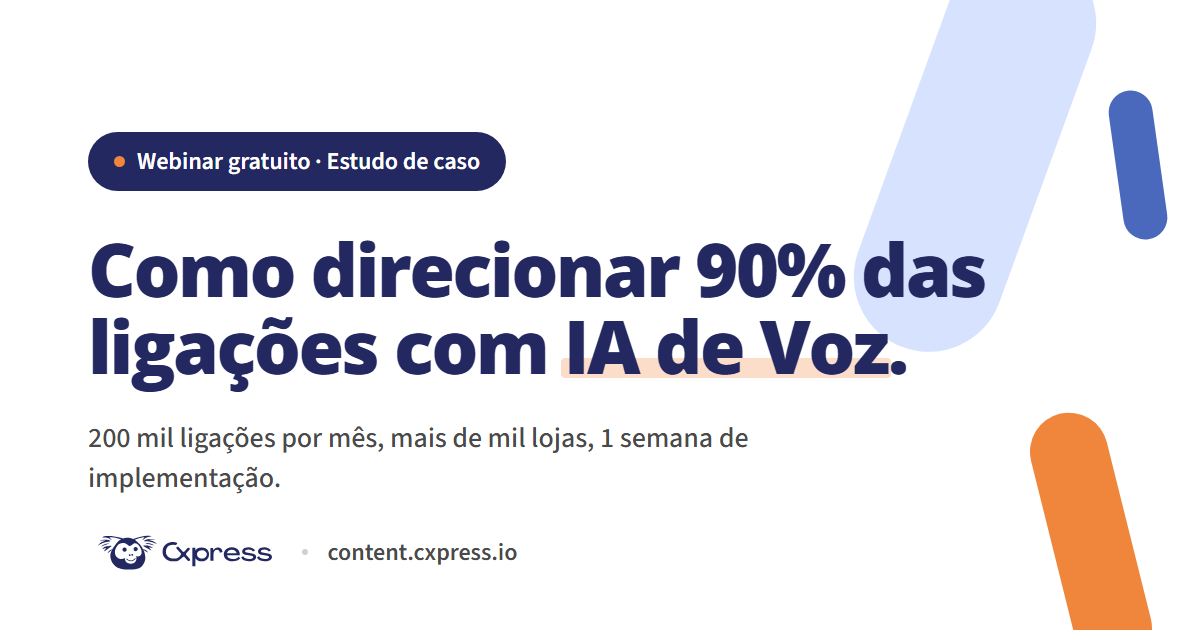
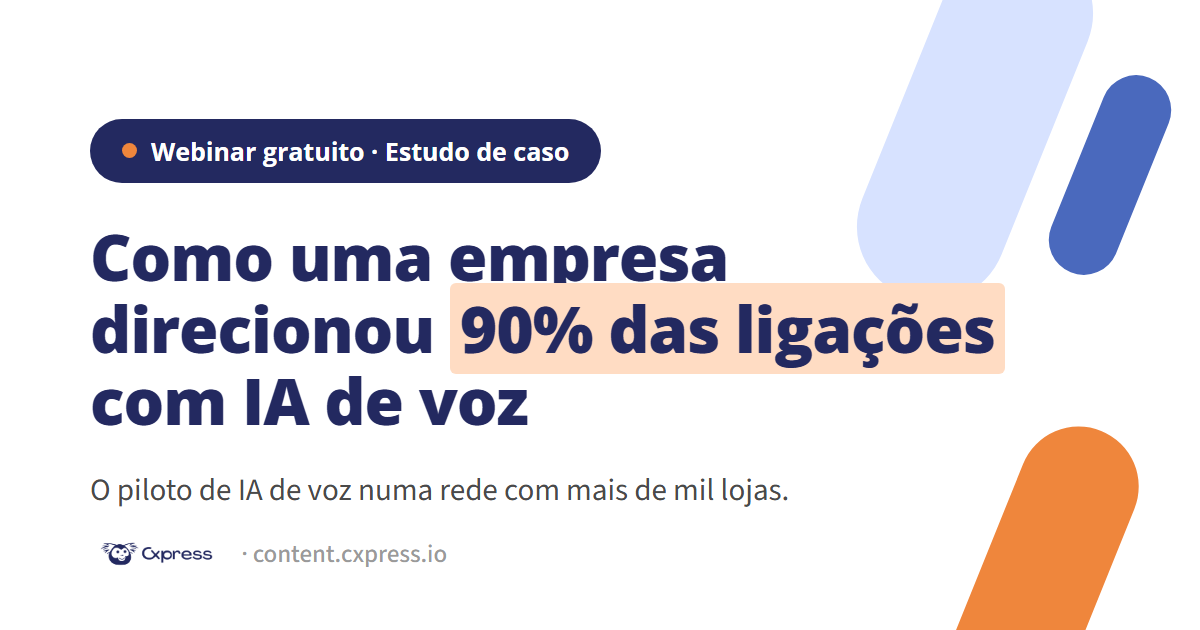
Redesenhar hero e atualizar copy da LP case-ia-de-voz

diff --git a/landing-pages/cxpress/case-ia-de-voz/index.html b/landing-pages/cxpress/case-ia-de-voz/index.html
@@ -12,8 +12,8 @@
   })(window,document,'script','dataLayer','GTM-T4XDWHL3');</script>
   <!-- End Google Tag Manager -->
 
-  <title>Estudo de Caso · Como Direcionar 90% das Ligações com IA de Voz</title>
-  <meta name="description" content="Estudo de caso: uma rede com mais de mil lojas usou IA de Voz (GPT Realtime + VozXpress) para direcionar 90% de 200 mil ligações mensais. Webinar gratuito.">
+  <title>Estudo de caso · 90% das ligações direcionadas com IA de voz</title>
+  <meta name="description" content="Estudo de caso: uma rede com mais de mil lojas recebia 200 mil ligações por mês pelo Google Meu Negócio e o telefone virou o elo fraco do atendimento. Veja como um piloto com IA de voz chegou a 90% de direcionamento correto. Webinar gratuito.">
   <meta name="robots" content="index, follow">
   <meta name="author" content="Cxpress">
   <meta name="theme-color" content="#ffffff">
@@ -24,16 +24,16 @@
   <meta property="og:site_name" content="Cxpress">
   <meta property="og:locale" content="pt_BR">
   <meta property="og:url" content="https://content.cxpress.io/case-ia-de-voz">
-  <meta property="og:title" content="Estudo de caso · Como direcionar 90% das ligações com IA de Voz">
-  <meta property="og:description" content="Webinar gratuito: o case real de uma rede com mais de mil lojas que colocou o GPT Realtime + VozXpress pra fazer a triagem de 200 mil ligações por mês.">
+  <meta property="og:title" content="Estudo de caso · Como uma empresa direcionou 90% das ligações com IA de voz">
+  <meta property="og:description" content="Webinar gratuito: o caso real de uma rede com mais de mil lojas onde o telefone virou o elo fraco do atendimento, e como um piloto com IA de voz chegou a 90% de direcionamento correto.">
   <meta property="og:image" content="https://content.cxpress.io/assets/cxpress/og-case-ia-de-voz.png">
   <meta property="og:image:width" content="1200">
   <meta property="og:image:height" content="630">
-  <meta property="og:image:alt" content="Webinar Cxpress: estudo de caso de IA de Voz com 90% das ligações direcionadas corretamente">
+  <meta property="og:image:alt" content="Webinar Cxpress: estudo de caso de um piloto com IA de voz que chegou a 90% de direcionamento correto">
 
   <meta name="twitter:card" content="summary_large_image">
-  <meta name="twitter:title" content="Estudo de caso · Como direcionar 90% das ligações com IA de Voz">
-  <meta name="twitter:description" content="Webinar gratuito: o case real de uma rede com mais de mil lojas que colocou o GPT Realtime + VozXpress pra fazer a triagem de 200 mil ligações por mês.">
+  <meta name="twitter:title" content="Estudo de caso · Como uma empresa direcionou 90% das ligações com IA de voz">
+  <meta name="twitter:description" content="Webinar gratuito: o caso real de uma rede com mais de mil lojas onde o telefone virou o elo fraco do atendimento, e como um piloto com IA de voz chegou a 90% de direcionamento correto.">
   <meta name="twitter:image" content="https://content.cxpress.io/assets/cxpress/og-case-ia-de-voz.png">
 
   <script type="application/ld+json">
@@ -50,15 +50,15 @@
       {
         "@type": "WebPage",
         "@id": "https://content.cxpress.io/case-ia-de-voz#webpage",
-        "name": "Estudo de Caso · Como Direcionar 90% das Ligações com IA de Voz",
+        "name": "Estudo de caso · 90% das ligações direcionadas com IA de voz",
         "url": "https://content.cxpress.io/case-ia-de-voz",
         "inLanguage": "pt-BR",
         "isPartOf": { "@id": "https://home.cxpress.io#organization" },
-        "description": "Webinar gratuito da Cxpress: estudo de caso de IA de Voz com GPT Realtime + VozXpress fazendo a triagem de 200 mil ligações mensais com 90% de direcionamento correto."
+        "description": "Webinar gratuito da Cxpress: estudo de caso de um piloto com IA de voz que chegou a 90% de direcionamento correto das ligações de uma rede com mais de mil lojas."
       },
       {
         "@type": "SoftwareApplication",
-        "name": "VozXpress",
+        "name": "IA de voz da Cxpress",
         "applicationCategory": "BusinessApplication",
         "url": "https://content.cxpress.io/case-ia-de-voz",
         "description": "Módulo de voz da plataforma Cxpress: agentes de voz com IA para triagem, direcionamento e atendimento de ligações, integrados aos demais canais.",
@@ -319,36 +319,48 @@
       50% { opacity: .4; transform: scale(1.3); }
     }
     .hero h1 {
-      font-size: clamp(38px, 5.2vw, 60px);
+      font-size: clamp(36px, 6.4vw, 70px);
       font-weight: 800;
-      line-height: 1.04;
-      letter-spacing: -0.035em;
-      margin-bottom: 22px;
+      line-height: 1.0;
+      letter-spacing: -0.042em;
+      color: var(--primary-dark);
+      margin-bottom: 16px;
+    }
+    .hero-lede {
+      font-family: var(--font-heading);
+      font-size: clamp(20px, 2.3vw, 27px);
+      font-weight: 700;
+      line-height: 1.3;
+      letter-spacing: -0.015em;
+      color: var(--primary-dark);
+      max-width: 560px;
+      margin-bottom: 24px;
       isolation: isolate;
     }
-    .hero h1 .mark {
+    .hero-lede .mark {
       position: relative;
       display: inline-block;
       white-space: nowrap;
+      font-weight: 800;
     }
-    .hero h1 .mark::after {
+    .hero-lede .mark::after {
       content: '';
       position: absolute;
       left: -2px;
       right: -2px;
-      bottom: 4px;
-      height: 14px;
+      bottom: 1px;
+      height: 11px;
       background: var(--accent);
-      opacity: .28;
+      opacity: .30;
       z-index: -1;
       border-radius: 3px;
     }
     .hero-body {
-      font-size: 19px;
+      font-size: 17.5px;
       color: var(--neutral-700);
-      max-width: 580px;
-      margin-bottom: 36px;
-      line-height: 1.6;
+      max-width: 560px;
+      margin-bottom: 32px;
+      line-height: 1.62;
     }
     .hero-actions {
       display: flex;
@@ -869,7 +881,7 @@
     }
     .outcome-grid {
       display: grid;
-      grid-template-columns: repeat(2, 1fr);
+      grid-template-columns: repeat(3, 1fr);
       gap: 24px;
     }
     .outcome-card {
@@ -1073,10 +1085,9 @@ height="0" width="0" style="display:none;visibility:hidden"></iframe></noscript>
               <span class="dot" aria-hidden="true"></span>
               Webinar gratuito · Estudo de caso
             </span>
-            <h1>
-              Como direcionar 90% das ligações com <span class="mark">IA de Voz</span>.
-            </h1>
-            <p class="hero-body">Uma rede com mais de mil lojas recebia 200 mil ligações por mês pelo botão de ligar do Google My Business. Os vendedores não davam conta de atender e o insucesso de contato virou o principal detrator da marca. Neste webinar gratuito, quem implementou o projeto conta como o GPT Realtime, integrado ao VozXpress da Cxpress, assumiu a triagem dessas chamadas e chegou a 90% de direcionamento correto.</p>
+            <h1>Atendimento Telefônico Sobrecarregado</h1>
+            <p class="hero-lede">Como uma empresa direcionou <span class="mark">90% das ligações</span> com IA de voz.</p>
+            <p class="hero-body">Uma rede com mais de mil lojas registrava cerca de 200 mil cliques por mês no botão de ligar do Google Meu Negócio. Porém, com o time sobrecarregado, o insucesso de contato virou um dos principais detratores da marca. Neste webinar gratuito, você vai entender como um agente de voz da Cxpress passou a analisar e direcionar as chamadas recebidas, reduzindo o esforço de atendimento do time das lojas.</p>
             <div class="hero-actions">
               <span class="hero-meta">
                 <span>Online</span>
@@ -1154,7 +1165,7 @@ height="0" width="0" style="display:none;visibility:hidden"></iframe></noscript>
                 <line x1="6" y1="6" x2="18" y2="18"/><line x1="18" y1="6" x2="6" y2="18"/>
               </svg>
             </span>
-            <p class="pain-text">O insucesso de contato apareceu entre os top detratores nas avaliações do Google My Business.</p>
+            <p class="pain-text">O insucesso de contato apareceu entre os principais detratores nas avaliações do Google Meu Negócio.</p>
           </li>
           <li class="pain-item">
             <span class="pain-x" aria-hidden="true">
@@ -1162,7 +1173,7 @@ height="0" width="0" style="display:none;visibility:hidden"></iframe></noscript>
                 <line x1="6" y1="6" x2="18" y2="18"/><line x1="18" y1="6" x2="6" y2="18"/>
               </svg>
             </span>
-            <p class="pain-text">Reclamações e pós-venda caem na loja, que nem trata desses assuntos. O vendedor perde tempo e o cliente perde a paciência.</p>
+            <p class="pain-text">Reclamações e pós-venda também caem na loja, que nem trata desses assuntos. O vendedor perde tempo e o cliente perde a paciência.</p>
           </li>
           <li class="pain-item">
             <span class="pain-x" aria-hidden="true">
@@ -1170,7 +1181,7 @@ height="0" width="0" style="display:none;visibility:hidden"></iframe></noscript>
                 <line x1="6" y1="6" x2="18" y2="18"/><line x1="18" y1="6" x2="6" y2="18"/>
               </svg>
             </span>
-            <p class="pain-text">Eram 200 mil cliques por mês no botão de ligar, e ninguém sabia dizer sobre o que os clientes queriam falar.</p>
+            <p class="pain-text">Eram cerca de 200 mil cliques por mês no botão de ligar, e ninguém sabia dizer sobre o que os clientes queriam falar.</p>
           </li>
         </ul>
       </div>
@@ -1187,18 +1198,18 @@ height="0" width="0" style="display:none;visibility:hidden"></iframe></noscript>
         <div class="program-grid">
           <article class="program-card">
             <span class="program-number">01</span>
-            <h3 class="program-title">Por que a URA parou de dar conta</h3>
-            <p class="program-body">O que muda quando o modelo processa a voz em si, não a transcrição: conversa que soa humana, precisão com nomes e números e latência ajustável. O GPT Realtime explicado sem jargão.</p>
+            <h3 class="program-title">Agente de voz</h3>
+            <p class="program-body">Um único agente de voz para fazer a triagem das chamadas da loja, do interesse de compra à reclamação de pós-venda.</p>
           </article>
           <article class="program-card">
             <span class="program-number">02</span>
-            <h3 class="program-title">A implementação em 1 semana</h3>
-            <p class="program-body">Persona, mapeamento de cenários e construção do prompt na plataforma do GPT Realtime, e a configuração no VozXpress: número, templates de direcionamento e a integração entre as duas pontas.</p>
+            <h3 class="program-title">Implementação em 1 semana</h3>
+            <p class="program-body">O desenvolvimento do prompt, da persona e da configuração na plataforma em apenas uma semana.</p>
           </article>
           <article class="program-card">
             <span class="program-number">03</span>
-            <h3 class="program-title">A operação depois do ar</h3>
-            <p class="program-body">Curadoria diária das transcrições, ajuste de prompt com a linguagem do cliente (o caso instalação vs. montagem), fallback pro fluxo natural e o próximo passo: reter leads de venda pro vendedor retomar o contato.</p>
+            <h3 class="program-title">Resultados alcançados</h3>
+            <p class="program-body">Veja qual a meta estabelecida e quais resultados foram obtidos com o agente de voz.</p>
           </article>
         </div>
         <div class="section-cta">
@@ -1211,9 +1222,9 @@ height="0" width="0" style="display:none;visibility:hidden"></iframe></noscript>
     <section class="outcome reveal">
       <div class="container">
         <div class="outcome-header">
-          <span class="section-label">Os números do case</span>
-          <h2 class="section-h2">O que a IA de Voz entregou na prática.</h2>
-          <p class="section-intro">Resultados medidos na operação, com meta definida antes do projeto começar.</p>
+          <span class="section-label">Métricas da operação</span>
+          <h2 class="section-h2">O que a IA de voz entregou no piloto.</h2>
+          <p class="section-intro">O que o piloto entregou, com meta definida antes de começar.</p>
         </div>
         <div class="outcome-grid">
           <div class="outcome-card">
@@ -1222,15 +1233,7 @@ height="0" width="0" style="display:none;visibility:hidden"></iframe></noscript>
                 <polyline points="4 12 10 18 20 6"/>
               </svg>
             </span>
-            <p class="outcome-text"><strong>200 mil ligações por mês.</strong> O volume de cliques no botão de ligar do Google My Business da rede, uma média de 700 por loja.</p>
-          </div>
-          <div class="outcome-card">
-            <span class="outcome-check" aria-hidden="true">
-              <svg viewBox="0 0 24 24" fill="none" stroke="currentColor" stroke-width="3" stroke-linecap="round" stroke-linejoin="round">
-                <polyline points="4 12 10 18 20 6"/>
-              </svg>
-            </span>
-            <p class="outcome-text"><strong>Mais de mil lojas cobertas.</strong> Um único agente de voz faz a triagem da rede inteira, do interesse de compra à reclamação de pós-venda.</p>
+            <p class="outcome-text"><strong>Mais de mil lojas na rede.</strong> O piloto começou por uma unidade, com uma única IA de voz fazendo a triagem das chamadas, do interesse de compra à reclamação de pós-venda.</p>
           </div>
           <div class="outcome-card">
             <span class="outcome-check" aria-hidden="true">
@@ -1246,7 +1249,7 @@ height="0" width="0" style="display:none;visibility:hidden"></iframe></noscript>
                 <polyline points="4 12 10 18 20 6"/>
               </svg>
             </span>
-            <p class="outcome-text"><strong>90% de direcionamento correto.</strong> Meta definida no início do projeto e batida, com as 5 rotas de encaminhamento funcionando.</p>
+            <p class="outcome-text"><strong>90% de direcionamento correto.</strong> A meta definida antes de começar, batida no piloto: 9 em cada 10 chamadas foram para a rota certa.</p>
           </div>
         </div>
         <div class="outcome-cta">
@@ -1279,11 +1282,11 @@ height="0" width="0" style="display:none;visibility:hidden"></iframe></noscript>
             <span class="section-label">Quem conta o case</span>
             <h2 class="speaker-name">Beatriz</h2>
             <p class="speaker-role">Gerente de projetos · Elife</p>
-            <p class="speaker-bio">Beatriz lidera o projeto que colocou o agente de voz no ar para a rede. Em conversa com o time da Cxpress, ela conta a análise que abriu a oportunidade, a construção do prompt cenário a cenário, os problemas do caminho (som ambiente, terminologia da operação) e a rotina de curadoria diária que levou os direcionamentos aos 90% de acerto.</p>
+            <p class="speaker-bio">Beatriz lidera o projeto que colocou a IA de voz no ar em um piloto para a rede. Em conversa com o time da Cxpress, ela conta a análise que abriu a oportunidade, a construção do prompt cenário a cenário, os problemas do caminho (som ambiente, terminologia da operação) e a rotina de curadoria diária que levou os direcionamentos a 90% de acerto na unidade.</p>
             <div class="speaker-tags">
-              <span class="speaker-tag">IA de Voz</span>
-              <span class="speaker-tag">GPT Realtime</span>
-              <span class="speaker-tag">Google My Business</span>
+              <span class="speaker-tag">IA de voz</span>
+              <span class="speaker-tag">Triagem de chamadas</span>
+              <span class="speaker-tag">Google Meu Negócio</span>
             </div>
           </div>
         </div>
@@ -1295,7 +1298,7 @@ height="0" width="0" style="display:none;visibility:hidden"></iframe></noscript>
       <div class="container">
         <div class="cta-final-inner">
           <h2>As ligações não vão esperar sua equipe crescer.</h2>
-          <p class="cta-final-sub">Online, gratuito e direto ao ponto. Em cerca de 20 minutos você vê o caminho completo: da dor escondida nos dados do Google My Business à IA de Voz respondendo com 90% de acerto.</p>
+          <p class="cta-final-sub">Online, gratuito e direto ao ponto. Em cerca de 20 minutos você vê o caminho completo: da dor escondida nos dados do Google Meu Negócio à IA de voz chegando a 90% de direcionamento correto no piloto.</p>
           <div class="cta-final-meta">
             <span>Online</span>
             <span class="cta-final-meta-dot" aria-hidden="true"></span>
